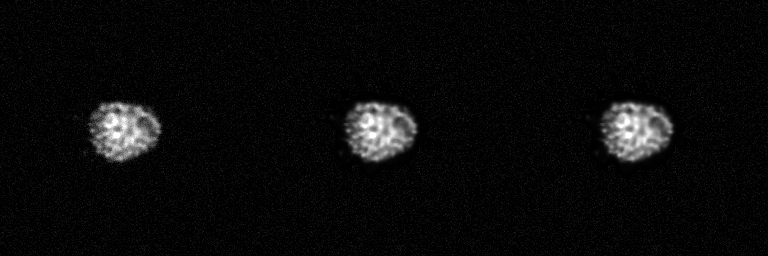
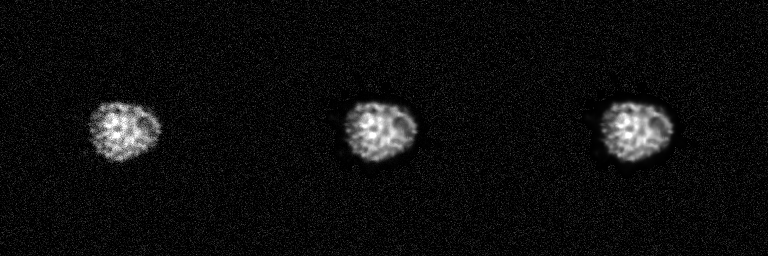
Implémentation de la méthode en 3D, ajout d'un test et correction d'erreur sur le premier code (main.py)

diff --git a/main2.py b/main2.py
@@ -19,7 +19,7 @@ batch = 2048             # Number of voxels in a batch
 aggregate = True         # True : Avergae all voxel estimations (paper, +0.3 dB)
                          # False : Use only the central K-Block
 
-noise_mode = "gaussian"  # "none" : no added nosie | "gaussian" / "rician" : added g/r noise
+noise_mode = "rician"  # "none" : no added nosie | "gaussian" / "rician" : added g/r noise
 sigma_noise = 20.0       # Noise parameter (std)
 sigma_known = None       # If None, code estimates noise using 
 
